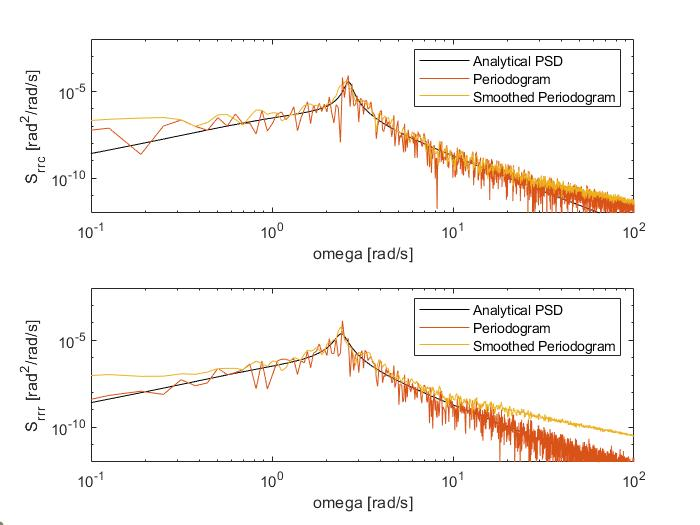
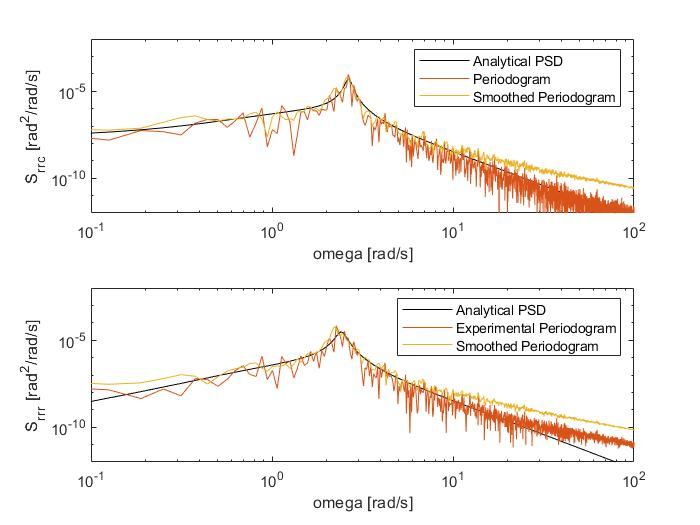
update v2

diff --git a/Ch_4_variance.m b/Ch_4_variance.m
@@ -11,30 +11,32 @@ var__beta_r = sum(Sxx_r(:,1)'.*dw)/pi
 var__rbv_r = sum(Sxx_r(:,2)'.*dw)/pi
 %var__ay_r = sum(Sxx_r(:,3)'.*dw)/pi
 %% var.m
-vbeta_c  = var(yt(:,1))
-vphi_c  = var(yt(:,2))
-vpbv_c  = var(yt(:,3))
-vrbv_c  = var(yt(:,4))
+vbeta_c  = var(yt1(:,1))
+vphi_c  = var(yt1(:,2))
+vpbv_c  = var(yt1(:,3))
+vrbv_c  = var(yt1(:,4))
 vay_c  = var(a_y)
 %Reduced model
-vbeta_r  = var(ytr(:,1))
-vrbv_r  = var(ytr(:,2))
+vbeta_r  = var(ytr1(:,1))
+vrbv_r  = var(ytr1(:,2))
 %vay_r  = var(a_y_r)
     
 %% lyapunov
 
 
 W = eye(2,2);
+W = eye(2,2);
 %Full Model
-B=B(:,4:5);
-L   = lyap(A2,B*W*B');
+Bl=B(:,4:5);
+L   = lyap(A2,Bl*W*Bl');
 L   = L(1:4,1:4);
-var_L = diag(L)';
+var_L = diag(L)'
 
 %Reduced model
-%Br=Br(:,4:5);
-% Lr   = lyap(Ar,Br*W*Br');
-% Lr   = Lr(1:2,1:2);
-% var_L_r = diag(Lr)'
+Bl1=Br(:,4:5);
+Lr   = lyap(Ar,Bl1*W*Bl1');
+Lr   = Lr(1:2,1:2);
+var_L_r = diag(Lr)';
+
 
 

diff --git a/Ch_2_time_response.m b/Ch_2_time_response.m
@@ -32,7 +32,7 @@ D = [0 0 0 0 0;
 % RESPONSE to all together (linear system!)
 yt = y1+y2+y3;
 xt = x1+x2+x3;
-a_y =  V*(xt(:,1) + (2*V/b)*yt(:,4));
+a_y =  V*(xt(:,1) + (2*V/b)*xt(:,4));
  
 [y1r,t,x1r] = lsim(sys_reduced,u1,t);
 % RESPONSE to v_g
@@ -41,7 +41,7 @@ a_y =  V*(xt(:,1) + (2*V/b)*yt(:,4));
 [y3r,t,x3r] = lsim(sys_reduced,u3,t);
 ytr = y1r+y2r+y3r;
 xtr = x1r+x2r+x3r;
-a_y_r = V*(ytr(:,1)+(2*V/b) *xtr(:,2));
+
 % PLOT RESULTS
 figure(1)
 subplot(2,1,1);
